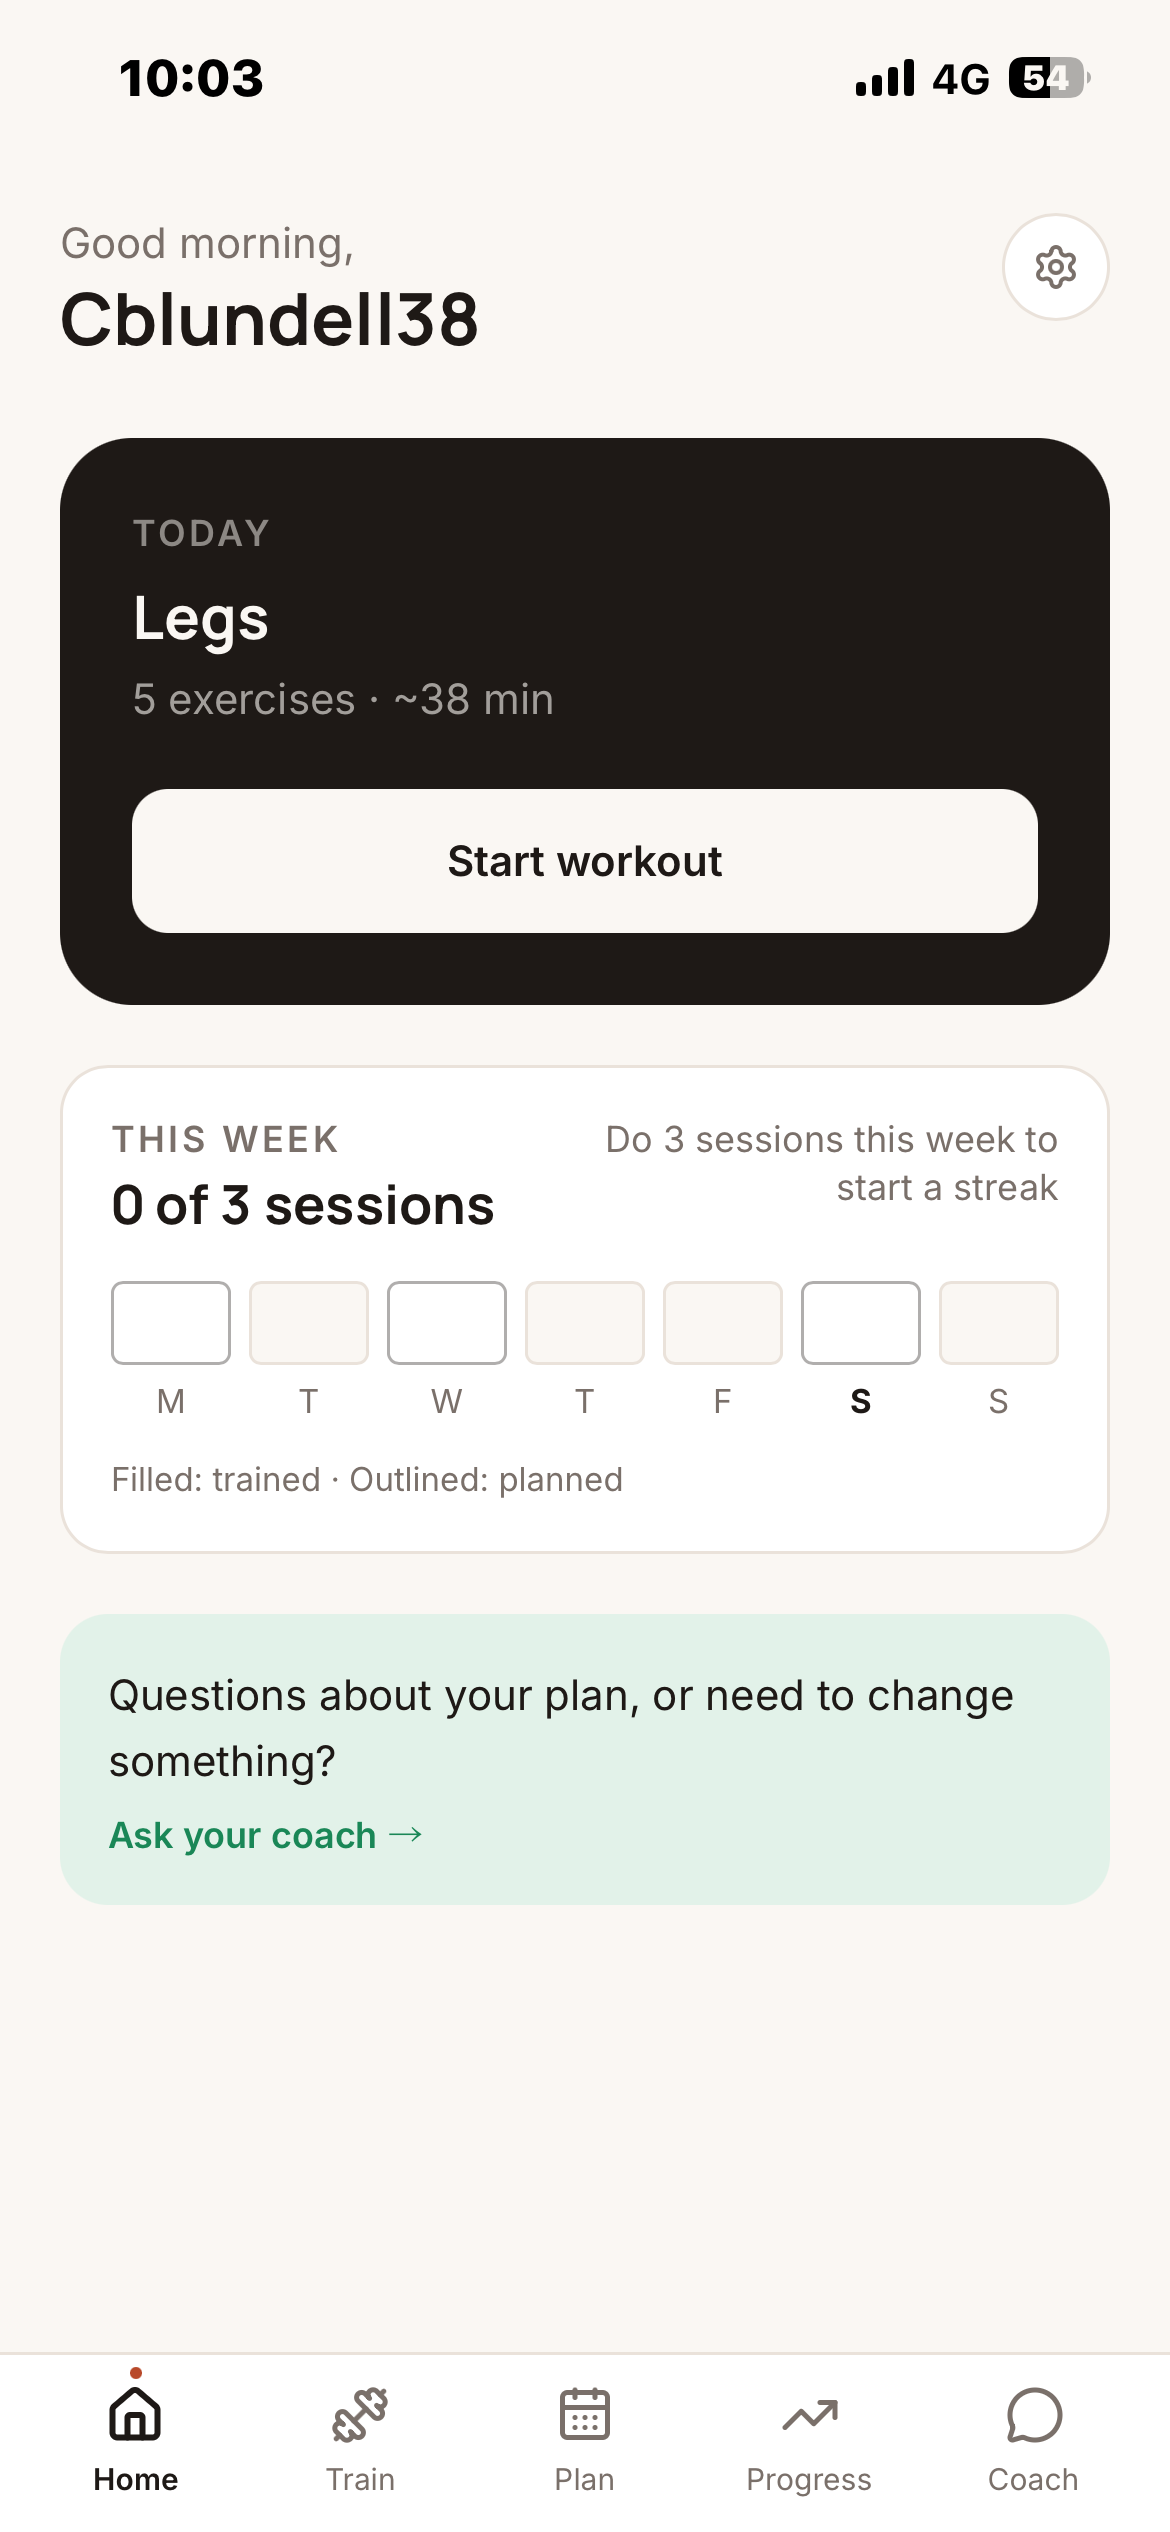
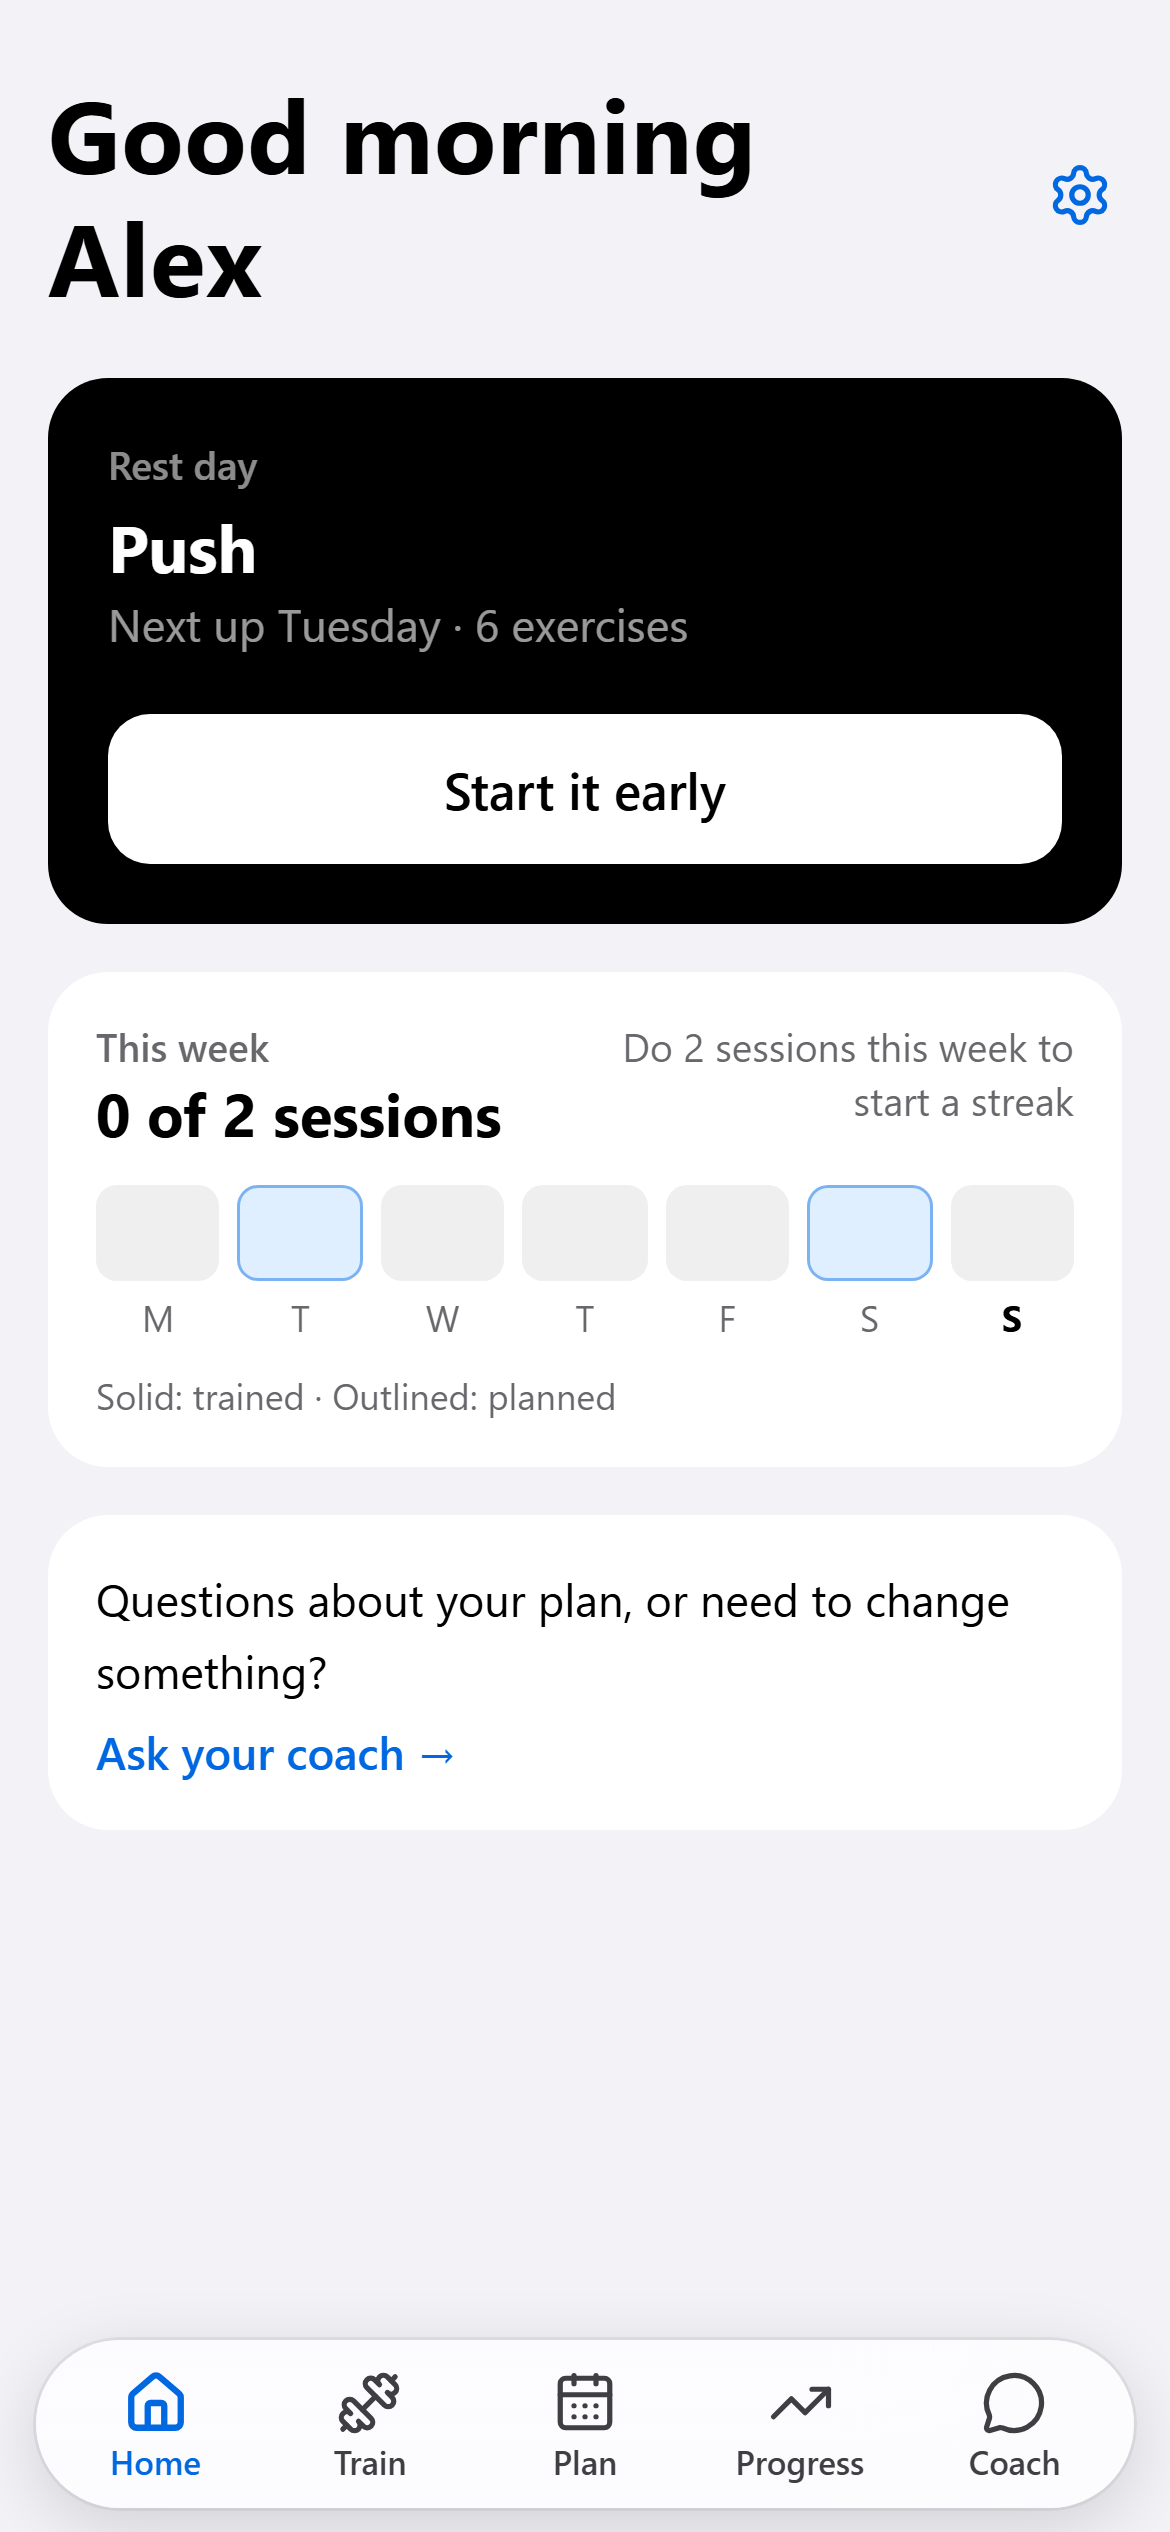
Retake the landing page's screenshots from the app as it is now
The phone shots in the hero were taken by hand in September and still
showed the warm-paper design, a terracotta accent and the old training
screen. The landing page was advertising a product that no longer exists.

They're generated now — a script drives the real app in a headless browser
at iPhone resolution with sign-in stubbed the way the tests stub it, so
`npm run screens` brings the marketing back in line after any design
change. It dismisses the install prompt, hides the dev overlay, and uses a
plan with a full session in it, because none of that is the product.

Cropping was there to hide a phone status bar that a headless browser
doesn't draw, so it's off by default.

diff --git a/scripts/marketing-screens.ts b/scripts/marketing-screens.ts
@@ -1,0 +1,128 @@
+/*
+ * Retakes the phone screenshots the landing page is built from.
+ *
+ * They were taken by hand on a phone, which means the moment the app's design
+ * changes the marketing shows a product that no longer exists — which is what
+ * happened. This drives the real app in a real browser at iPhone resolution
+ * instead, so the landing page can be brought back in line with one command.
+ *
+ * Needs the dev server running (npm run dev). Sign-in is stubbed exactly as
+ * the tests stub it, so this never touches a real account.
+ *
+ * Run with: npm run screens
+ */
+import { chromium, type Page } from "@playwright/test";
+import path from "node:path";
+import { samplePlan, stubSupabase, supabaseProjectRef, TEST_USER } from "../e2e/signed-in";
+
+/** iPhone 15 at 3x, which is what the landing page's Screen component expects. */
+const VIEWPORT = { width: 390, height: 844 };
+const SCALE = 3;
+const BASE = process.env.BASE_URL ?? "http://localhost:3000";
+const OUT = path.join(process.cwd(), "public", "screens");
+
+async function settle(page: Page) {
+  await page.waitForLoadState("networkidle");
+  // Page transitions animate in; shoot the settled screen.
+  await page.waitForTimeout(900);
+  // The dev server's own overlay sits over the tab bar and is not the product.
+  await page.addStyleTag({ content: "nextjs-portal{display:none!important}" });
+}
+
+/**
+ * The tests' plan is deliberately small. A screenshot that says "1 / 2
+ * exercises" undersells the thing, so the marketing plan is a real session.
+ */
+function marketingPlan() {
+  const plan = samplePlan();
+  const more = ["incline_db", "cable_fly", "triceps_pushdown", "lateral_raise"];
+  const template = plan.sessions[0].exercises[0];
+  plan.sessions[0].exercises = [
+    plan.sessions[0].exercises[0],
+    plan.sessions[0].exercises[1],
+    ...more.map((exerciseId) => ({ ...template, exerciseId, sets: 3, repMin: 8, repMax: 12 })),
+  ];
+  return plan;
+}
+
+async function main() {
+  const browser = await chromium.launch();
+  const context = await browser.newContext({
+    viewport: VIEWPORT,
+    deviceScaleFactor: SCALE,
+    isMobile: true,
+    hasTouch: true,
+  });
+
+  const page = await context.newPage();
+  await stubSupabase(page, marketingPlan());
+  await page.addInitScript(
+    ({ ref, user }) => {
+      const hour = 60 * 60;
+      window.localStorage.setItem(
+        `sb-${ref}-auth-token`,
+        JSON.stringify({
+          access_token: "test-access-token",
+          refresh_token: "test-refresh-token",
+          token_type: "bearer",
+          expires_in: hour,
+          expires_at: Math.floor(Date.now() / 1000) + hour,
+          user,
+        })
+      );
+    },
+    {
+      ref: supabaseProjectRef(),
+      // A name rather than "Test", since this ends up on the landing page.
+      user: { ...TEST_USER, user_metadata: { full_name: "Alex Rivera" } },
+    }
+  );
+
+  // The install card is a prompt, not the product, and it owns half the home
+  // screen until it's dismissed.
+  await page.addInitScript(() => {
+    window.localStorage.setItem("install-prompt-dismissed-at", String(Date.now()));
+  });
+
+  await page.goto(BASE);
+  await settle(page);
+
+  for (const screen of ["home", "plan", "coach"]) {
+    await page.goto(`${BASE}/${screen}`);
+    await settle(page);
+    await page.screenshot({ path: path.join(OUT, `${screen}.png`) });
+    console.log(`  ${screen}.png`);
+  }
+
+  /*
+   * Train needs a workout in progress, so walk in the way a person does:
+   * start it, answer the check-in, skip past the warm-up.
+   */
+  await page.goto(`${BASE}/home`);
+  await settle(page);
+  await page.getByRole("button", { name: /start workout|start it early/i }).first().click();
+  await settle(page);
+
+  for (const answer of ["Well", "Not sore", "None"]) {
+    const button = page.getByRole("button", { name: answer, exact: true });
+    if (await button.count()) await button.first().click();
+  }
+  const begin = page.getByRole("button", { name: "Start workout" });
+  if (await begin.count()) await begin.click();
+  await settle(page);
+
+  const skip = page.getByRole("button", { name: /skip the warm-up|done — start the workout/i });
+  if (await skip.count()) await skip.first().click();
+  await settle(page);
+
+  await page.screenshot({ path: path.join(OUT, "train.png") });
+  console.log("  train.png");
+
+  await browser.close();
+  console.log(`\nFour screens at ${VIEWPORT.width * SCALE}x${VIEWPORT.height * SCALE} in public/screens.`);
+}
+
+main().catch((e) => {
+  console.error(e);
+  process.exit(1);
+});

diff --git a/e2e/signed-in.ts b/e2e/signed-in.ts
@@ -79,7 +79,7 @@ const PROFILE = {
   health_consent_at: "2026-09-01T00:00:00.000Z",
 };
 
-const USER = {
+export const TEST_USER = {
   id: USER_ID,
   aud: "authenticated",
   role: "authenticated",
@@ -95,7 +95,7 @@ const USER = {
  * for the browser; the test runner is a separate process that doesn't, so we
  * read it here rather than guessing and silently landing on the sign-in page.
  */
-function supabaseProjectRef(): string {
+export function supabaseProjectRef(): string {
   const fromEnv = process.env.NEXT_PUBLIC_SUPABASE_URL;
   const fromFile = fromEnv
     ? null
@@ -123,7 +123,7 @@ export async function stubSupabase(page: Page, plan: Plan | null) {
   const saved: Plan[] = [];
 
   await page.route("**/auth/v1/**", (route) =>
-    route.fulfill(json(route.request().url().includes("/user") ? USER : { user: USER }))
+    route.fulfill(json(route.request().url().includes("/user") ? TEST_USER : { user: TEST_USER }))
   );
 
   await page.route("**/rest/v1/**", (route) => {
@@ -180,7 +180,7 @@ export const test = base.extend<Fixtures>({
           })
         );
       },
-      { ref: projectRef, user: USER }
+      { ref: projectRef, user: TEST_USER }
     );
 
     await page.goto(baseURL!);

diff --git a/src/app/page.tsx b/src/app/page.tsx
@@ -86,7 +86,12 @@ const SHOT_HEIGHT = 2532;
  * are taken from the installed app, so what sits at the bottom is the app's
  * own navigation — that stays.
  */
-const STATUS_BAR = 120;
+/*
+ * The screenshots are taken by scripts/marketing-screens.ts in a headless
+ * browser, so there's no phone status bar to hide any more. Cropping is now
+ * only ever a framing choice, and nothing needs cropping by default.
+ */
+const STATUS_BAR = 0;
 
 /**
  * One app screenshot in a phone frame, cropped without touching the file:
@@ -273,7 +278,7 @@ export default function Landing() {
 
           <div className="grid grid-cols-2 gap-4 sm:gap-5 lg:col-span-6 lg:gap-4">
             {/* Cropped below the greeting: the name there belongs to whoever took the screenshot. */}
-            <Screen src="/screens/home.png" alt="The app's home screen: today's session, with the week below it." cropTop={400} eager />
+            <Screen src="/screens/home.png" alt="The app's home screen: today's session, with the week below it." eager />
             <Screen
               src="/screens/train.png"
               alt="Logging a set during a workout, with the rest timer counting down."
